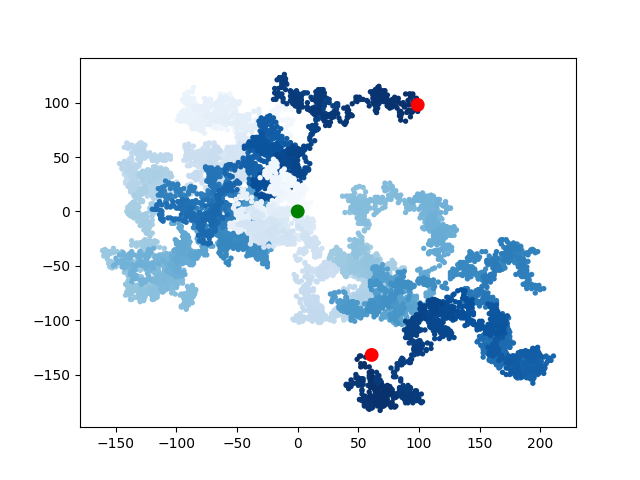
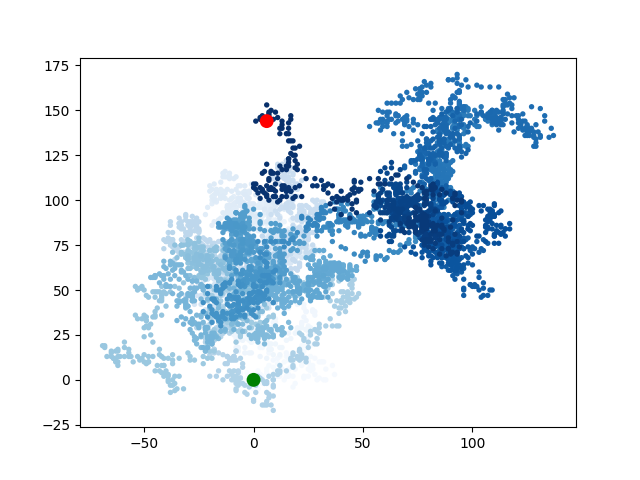
Limpando os eixos (pg 382).

diff --git a/capitulo_15-Gerando_dados/rw_visual.py b/capitulo_15-Gerando_dados/rw_visual.py
@@ -7,6 +7,9 @@ HISTÓRICO
 
     20211203: João Paulo, março de 2021.
         - Plotando os pontos de início e de fim (pg 381-382).
+
+    20211303: João Paulo, março de 2021.
+        - Limpando os eixos (pg 382).
 """
 
 import matplotlib.pyplot as plt
@@ -23,14 +26,20 @@ while True:
 
     point_numbers = list(range(rw.num_points))
 
-    plt.scatter(rw.x_values, rw.y_values, c=point_numbers, cmap=plt.cm.Blues, edgecolor='none', s=15) 
+    plt.scatter(rw.x_values, rw.y_values, c=point_numbers, cmap=plt.cm.Blues,
+            edgecolor='none', s=15)
 
     # Enfatiza o primeiro e o último ponto:
     plt.scatter(0, 0, c='green', edgecolors='none', s=100)
-    plt.scatter(rw.x_values[-1], rw.y_values[-1], c='red', edgecolors='none', s=100)
+    plt.scatter(rw.x_values[-1], rw.y_values[-1], c='red', edgecolors='none',
+            s=100)
+
+    # Remove os eixos:
+    plt.axes().get_xaxis().set_visible(False)
+    plt.axes().get_yaxis().set_visible(False)
 
     # Salva os gráficos automaautomatic:
-    plt.savefig('random_walk_plot' + str(i) + '.png')
+    plt.savefig('random_walk_plot_sem_eixos' + str(i) + '.png')
     i += 1
 
     plt.show()
